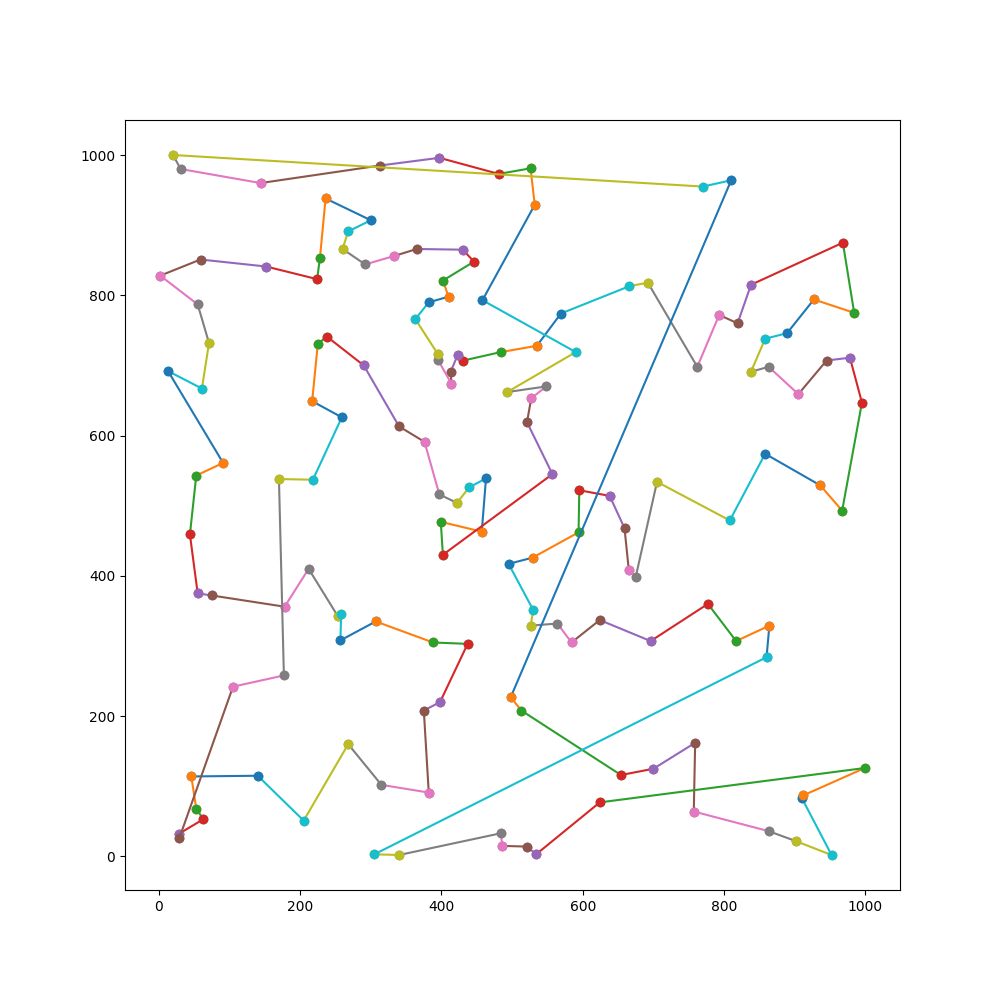
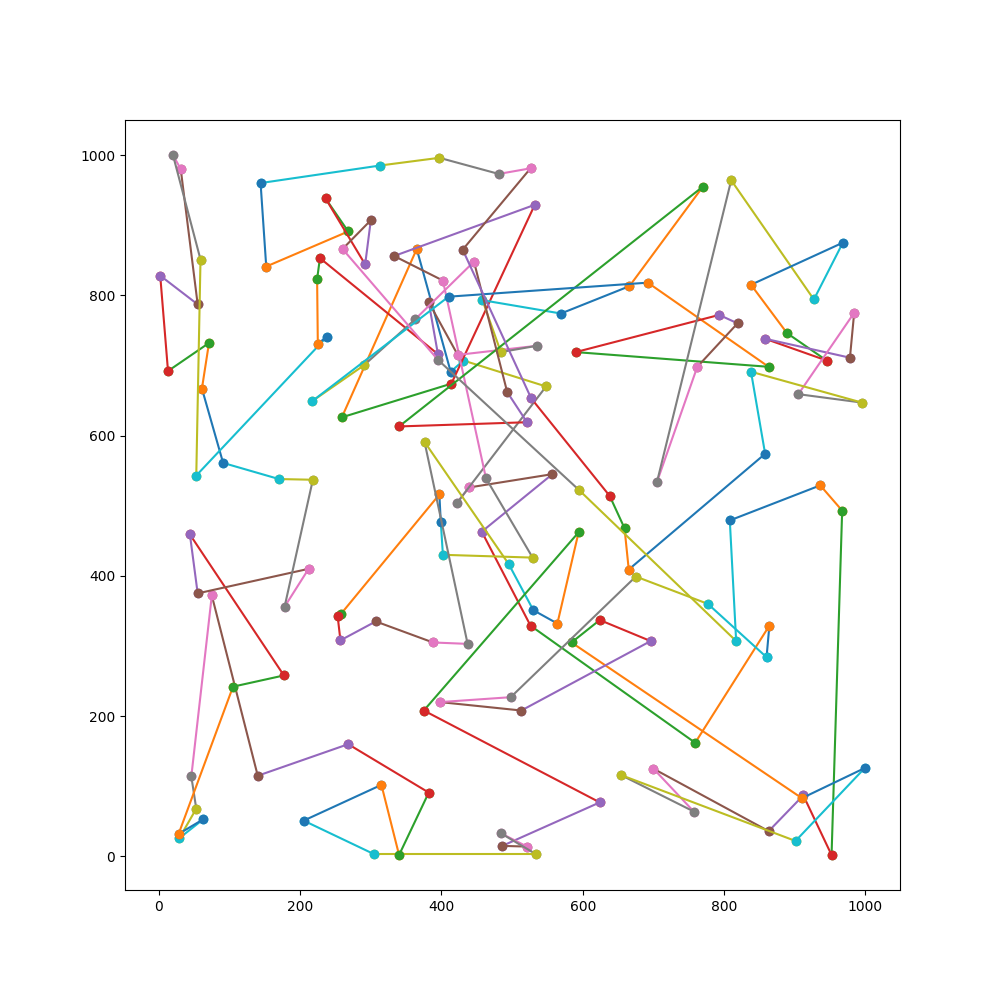
おｍｓｋｒ

diff --git a/AHC/A46_2/main.cpp b/AHC/A46_2/main.cpp
@@ -4,7 +4,7 @@
 #define print(x) cout << x << endl
 const int INF = LLONG_MAX;
 const int N_INF = LLONG_MIN;
-const int LMT = 990; // ミリ秒指定
+const int LMT = 10000; // ミリ秒指定
 
 using namespace std;
 
@@ -40,17 +40,11 @@ double culc_score(vector<int> &vec){
     return sum;
 }
 
-double culc_diff_score(vector<int> &vec, int a, int b){
-    double score = distance(city[vec[a]], city[vec[a+1]]) + distance(city[vec[a]], city[vec[a-1]]) + distance(city[vec[b]], city[vec[b+1]]) + distance(city[vec[b]], city[vec[b-1]]);
+double culc_diff_score(vector<int> &vec, int a, int b, int n){
+    double score = distance(city[vec[a]], city[vec[(a+1) % n]]) + distance(city[vec[a]], city[vec[(a-1+n)%n]]) + distance(city[vec[b]], city[vec[(b+1)%n]]) + distance(city[vec[b]], city[vec[(b-1+n)%n]]);
     return score;
 }
 
-unsigned int randxor()
-{
-    static unsigned int x=123456789,y=362436069,z=521288629,w=88675123;
-    unsigned int t;
-    t=(x^(x<<11));x=y;y=z;z=w; return( w=(w^(w>>19))^(t^(t>>8)) );
-}
 
 void solve() {
     // hogehoge
@@ -88,30 +82,36 @@ void solve() {
         now_idx = next_index;
         ck[next_index] = true;
     }
-    ans.push_back(0);
-    // print("貪欲: " << 1000000 / culc_score(ans));
+    
+    //print("貪欲: " << 1000000 / culc_score(ans));
+    
+    std::mt19937 generator;
+    generator.seed(std::random_device()());
+    std::uniform_int_distribution<int> distribution(0, n-1);
+    std::uniform_int_distribution<int> rnd(0, 32767);
 
     // 焼く
-    double start_tmp = 5, end_tmp = 0;
+    double start_tmp = 15, end_tmp = 3;
     while(true){
         now = std::chrono::system_clock::now();
         double elapsed = std::chrono::duration_cast<std::chrono::milliseconds>(now-start).count(); //処理に要した時間をミリ秒に変換
         if(elapsed > LMT) break;
 
-        int a = randxor() % (n-1) + 1;
-        int b = a;
-        while(b == a) b = randxor() % (n-1) + 1;
-        int pre_score = culc_diff_score(ans, a, b);
+        int a = distribution(generator);
+        int b = distribution(generator);
+        if(a == b || a == 0 || b == 0) continue;
+        int pre_score = culc_diff_score(ans, a, b, n);
         swap(ans[a], ans[b]);
-        int new_score = culc_diff_score(ans, a, b);
+        int new_score = culc_diff_score(ans, a, b, n);
 
         double temp = start_tmp + (end_tmp - start_tmp) * (elapsed) / LMT;
         double prob = exp((pre_score-new_score)/temp);
 
-        if(!(prob > (rand()%INF)/(double)INF)){
+        if(!(prob > (rnd(generator)%INF)/(double)INF)){
             swap(ans[a], ans[b]);
         }
     }
+    ans.push_back(0);
     print_ans(ans);
     //print("END : " << 1000000 / culc_score(ans));
 }

diff --git a/other/codefestival2016C.cpp b/other/codefestival2016C.cpp
@@ -5,7 +5,8 @@
 #define itrep(itr, stl) for(auto itr = stl.begin(); itr != stl.end(); itr++)
 #define Vec2D(type, n, m, val) vector<vector<type>>(n, vector<type>(m, val))
 #define print(x) cout << x << endl
-#define all(a) a.begin(), a.end()
+#define all(stl) a.begin(), a.end()
+#define revall(stl) a.rbegin(), a.rend()
 const int INF = LLONG_MAX;
 const int N_INF = LLONG_MIN;
 using namespace std;
@@ -24,6 +25,24 @@ int b_search(vector<int>& v, int k) { int ng = -1, ok = v.size(); while (abs(ng 
 
 void solve() {
     // hogehoge
+    int k, t;
+    cin >> k >> t;
+    vector<int> a(t);
+    rep(i, t) cin >> a[i];
+    
+
+    int cake_num = t;
+    while(t > 1){
+        sort(revall(a));
+        a[0] -= a[1];
+        a[1] = 0;
+
+        t--;
+        if(a[0] == 0) t--; 
+    } 
+    sort(revall(a));
+    if(a[0] == 0) print(0);
+    else print(a[0] - 1);
 }
 
 signed main() {
